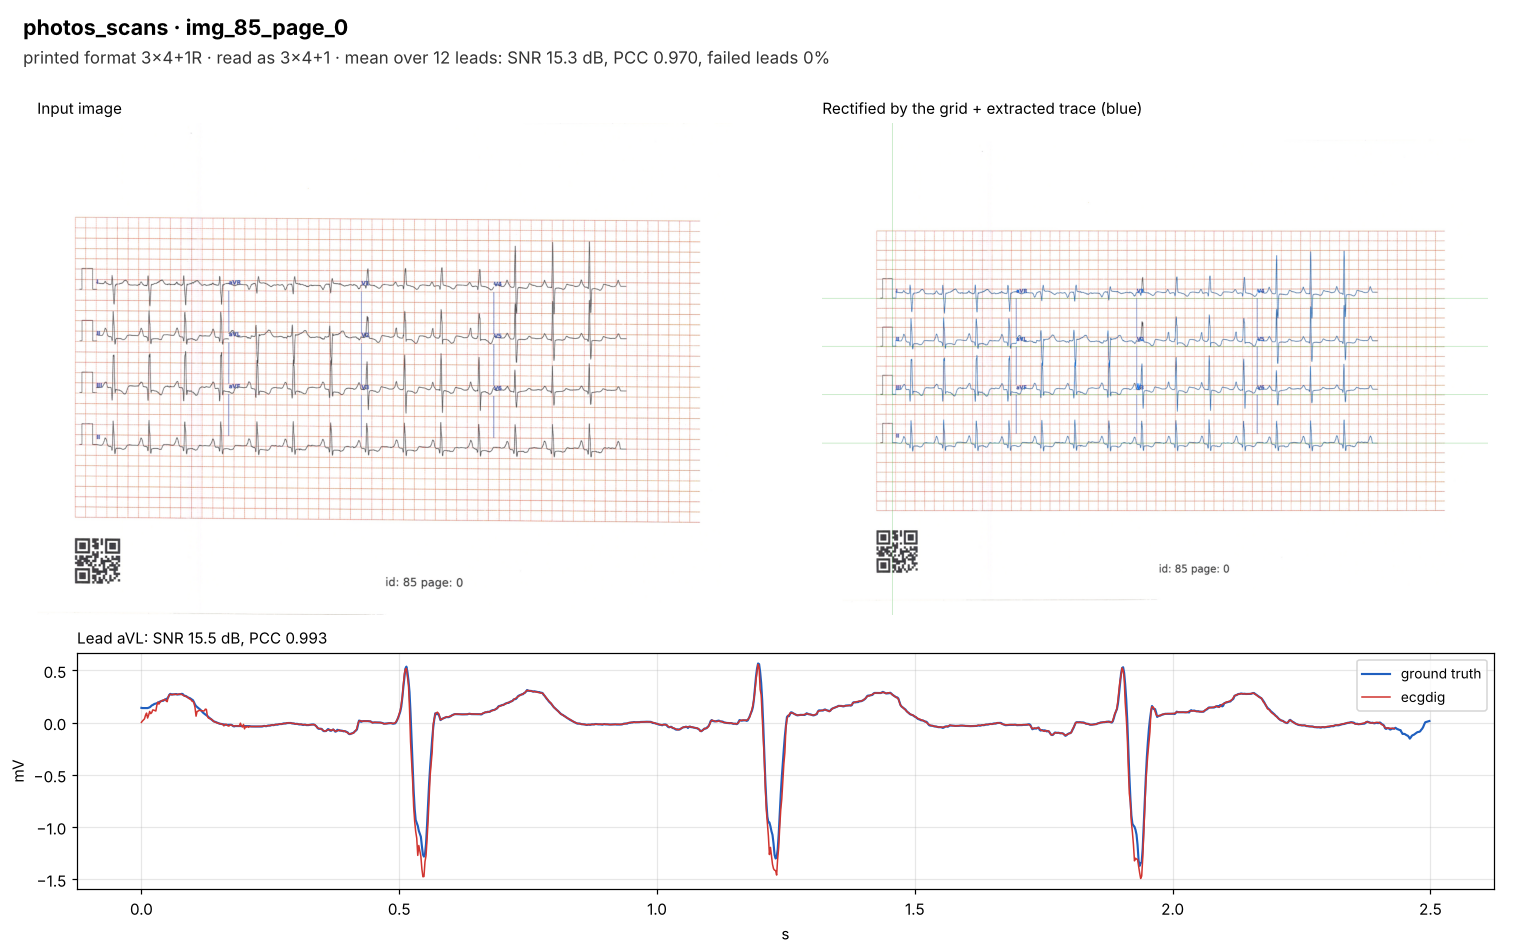
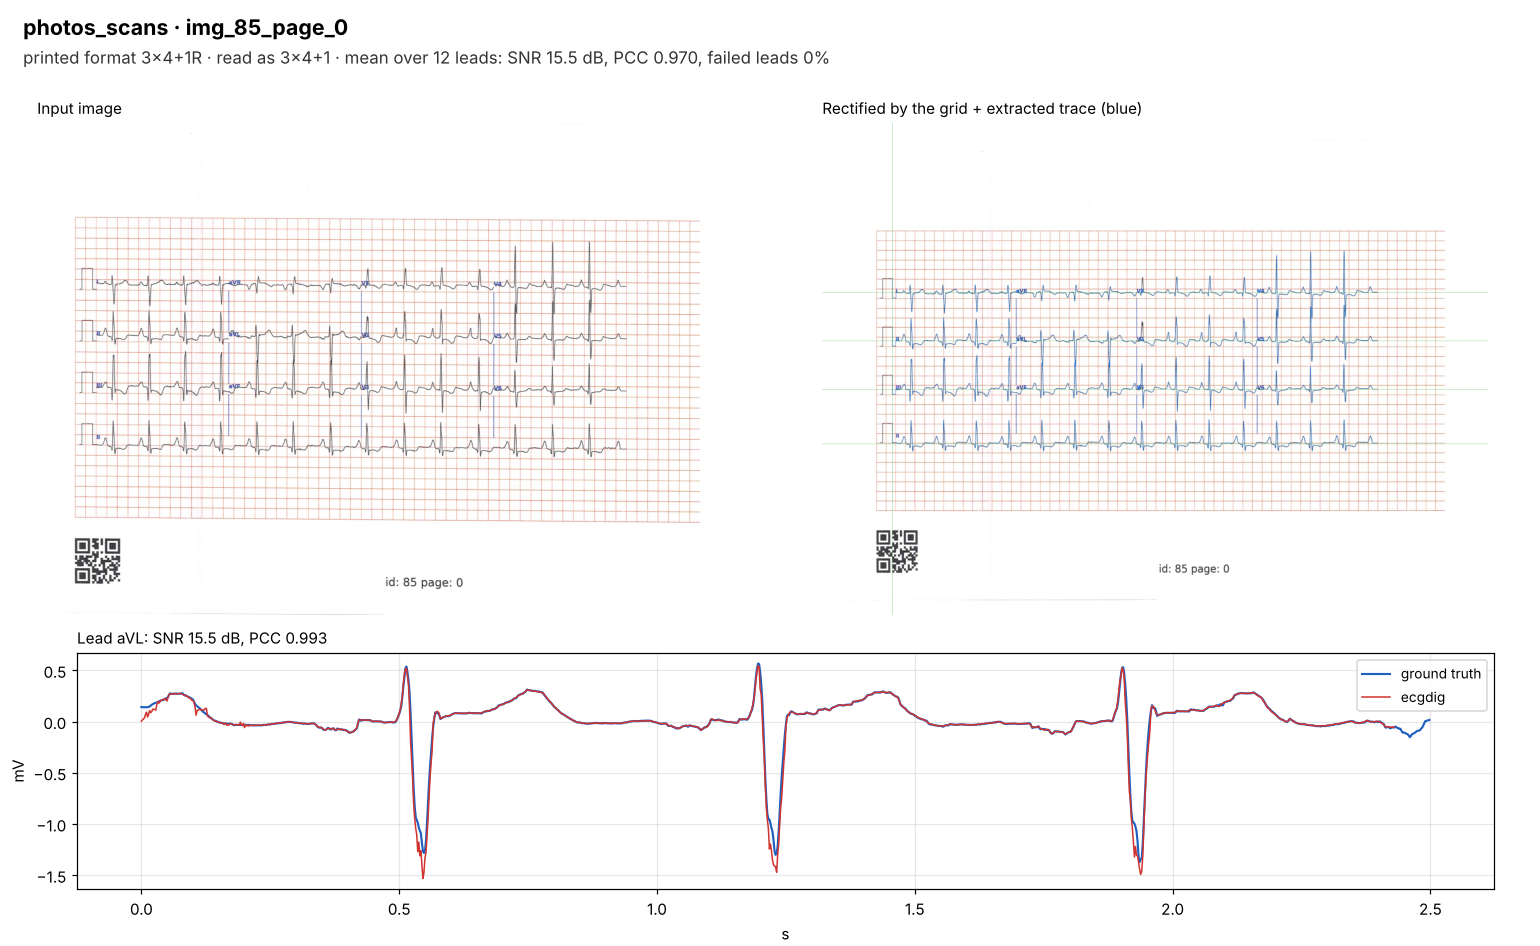
Gallery regenerated with the current code; README captions with the measured SNR, new examples of the structure fixes
Claude-Session: https://claude.ai/code/session_01XLYXXxjz4UsWZCGLFUhpFJ

diff --git a/README.md b/README.md
@@ -26,29 +26,31 @@ Each figure shows the input image, the page rectified by the grid with the extra
 | | |
 |---|---|
 | ![](docs/gallery/photos_scans__img_74_page_0.png) | ![](docs/gallery/photos_iphone__img_26_page_0.png) |
-| Desk scan, 3x4 + rhythm II | Phone photo on cardboard, 3x4 + rhythm II |
+| Desk scan, 3x4 + rhythm II (25.5 dB) | Phone photo on cardboard, 3x4 + rhythm II (22.5 dB) |
 | ![](docs/gallery/photos_doogee__img_19_page_0.png) | ![](docs/gallery/rotation_15__img_60_page_0.png) |
-| Phone photo, 6x2 + rhythm | Rotated 15°, 6x2 |
+| Phone photo, 6x2 + rhythm (23.5 dB) | Rotated 15°, 6x2 (18.6 dB) |
 | ![](docs/gallery/perspective_transformation_30__img_98_page_0.png) | ![](docs/gallery/digital_data_high_freq_noise_large__img_5_page_0.png) |
-| Strong perspective, 3x4 + 3 rhythm strips | Digital page with heavy high-frequency noise, 6x2 |
+| Strong perspective, 3x4 + 3 rhythm strips (17.9 dB) | Digital page with heavy high-frequency noise, 6x2 (22.0 dB) |
+| ![](docs/gallery/digital_data_opacity_1__img_79_page_0.png) | |
+| Blue trace on a black grid, 18 mm between the columns: chroma ink map and wide column gap (19.8 dB; −3.8 dB before) | |
 
 ### Typical
 
 | | |
 |---|---|
-| ![](docs/gallery/photos_scans__img_85_page_0.png) | ![](docs/gallery/photos_screens__img_50_page_0.png) |
-| Desk scan near the scenario median | Photo of a screen (moiré): the columns are split in the wrong place and the page is read as three strips |
+| ![](docs/gallery/photos_scans__img_85_page_0.png) | ![](docs/gallery/contrast_gamma_0.666__img_70_page_0.png) |
+| Desk scan near the scenario median (15.5 dB) | 12x1 whose rows are 2–8 mm apart and cross: the close rows are now found (10.4 dB; 0 dB before) |
 
 ### Bad
 
 | | |
 |---|---|
-| ![](docs/gallery/blur_kernel_31__img_49_page_0.png) | ![](docs/gallery/resolution_scale_down_factor_16__img_2_page_0.png) |
-| Blur 31: trace and grid merge; a 6x2 page read as three strips | Resolution 1/16: a 12x1 page read as 6x2 + rhythm, no lead aligns |
-| ![](docs/gallery/photos_crumbles__img_81_page_0.png) | ![](docs/gallery/digital_data_opacity_015__img_60_page_0.png) |
-| Crumpled paper: the grid is lost in the folds | Opacity 0.15: no trace row is found |
-| ![](docs/gallery/contrast_gamma_0.666__img_70_page_0.png) | |
-| 12x1 page whose rows are 2–8 mm apart and cross: no format fits the rows found | |
+| ![](docs/gallery/photos_screens__img_50_page_0.png) | ![](docs/gallery/blur_kernel_31__img_49_page_0.png) |
+| Photo of a screen (moiré): the columns are split in the wrong place and the page is read as one sheet of a two-sheet 3x2 | Blur 31: trace and grid merge; a 6x2 page read as three strips |
+| ![](docs/gallery/resolution_scale_down_factor_16__img_2_page_0.png) | ![](docs/gallery/photos_crumbles__img_81_page_0.png) |
+| Resolution 1/16: a 12x1 page read as 6x2 + rhythm, no lead aligns | Crumpled paper: the grid is lost in the folds |
+| ![](docs/gallery/digital_data_opacity_015__img_60_page_0.png) | |
+| Opacity 0.15: no trace row is found | |
 
 ## Install and use
 
